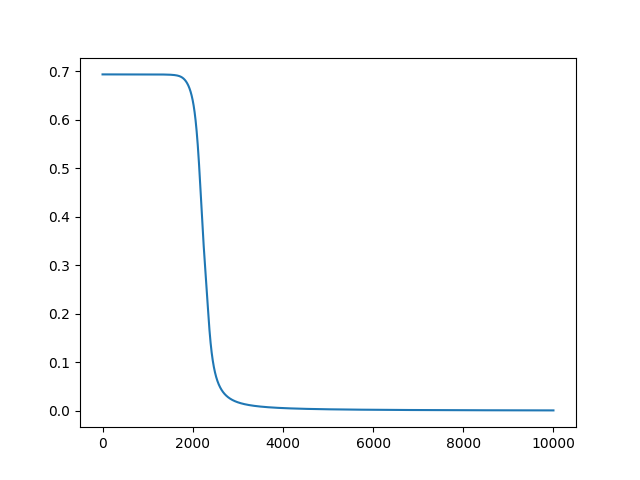
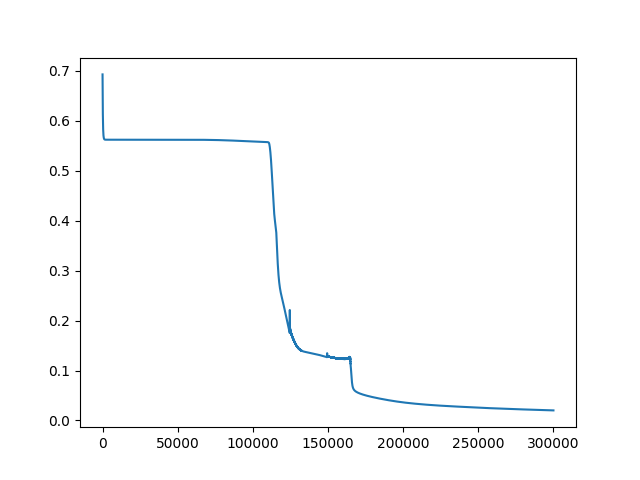
added 3d data + images

diff --git a/main.py b/main.py
@@ -2,79 +2,101 @@ from neural_network import NeuralNetwork
 from layer import Dense
 import numpy as np
 import matplotlib.pyplot as plt
+from mpl_toolkits.mplot3d import Axes3D
+import random
 
-def createData():
-    # circles = np.array([[1, 5, 0], [1, 3.8, 0], [1.3, 4, 0], [2, 3.8, 0], [1.5, 1.8, 0], [0.9, 0.9, 0], [2.3, 1, 0],
-    #                     [2.6, 1.9, 0], [3.3, 1.9, 0], [4.2, 1.2, 0], [5.1, 2.1, 0], [5.4, 0.7, 0]])
-    #
-    # squares = np.array([[3, 5, 1], [3.1, 4.2, 1], [3.14, 3.1, 1], [3.9, 3.5, 1], [4.1, 4.8, 1], [4.2, 3, 1],
-    #                     [4.8, 3.1, 1], [4.8, 4.9, 1], [5, 4, 1], [5.2, 3.1, 1], [5.4, 5.1, 1], [6, 3.8, 1]])
+def create3dData():
+    circles = []
+    squares = []
 
-    circles = np.array([[1.8, 2.2, 0], [2.6, 1.8, 0], [3.8, 1.9, 0], [4, 2.1, 0], [4.1, 3, 0], [4.1, 4.1, 0],
-                        [3.9, 4.3, 0], [1.7, 4, 0], [2, 4.3, 0], [2.1, 2.1, 0], [1.8, 3, 0], [1.9, 3.2, 0],
-                        [3, 5, 0], [2.5, 4.5, 0], [2.6, 4.6, 0], [3.5, 4.6, 0], [3, 1.9, 0], [3.3, 1.8, 0], [3.5, 1.75, 0]])
-    squares = np.array([[2.2, 2.9, 1], [2.22, 3.9, 1], [3.3, 2.2, 1], [3.8, 2.65, 1], [3.8, 3.6, 1], [3.5, 4, 1],
-                        [3, 4.2, 1], [2.9, 2.4, 1], [2.2, 3.5, 1], [2.6, 2.6, 1], [3.6, 2.5, 1], [3.9, 3.1, 1],
-                        [2.6, 4, 1]])
+    for i in range(200):
+        x = random.random() * 2 + 2
+        y = random.random() * 2 + 2
+        z = random.random() * 2 + 2
+        squares.append([x, y, z, 1])
 
-    plt.scatter(circles[:, 0], circles[:, 1], marker='o', color='blue')
-    plt.scatter(squares[:, 0], squares[:, 1], marker='s', color='green')
-    plt.savefig('simpleData')
+    for i in range(500):
+        x = random.random() * 6
+        y = random.random() * 6
+        z = random.random() * 6
+
+        while((x >= 2 and x < 4) and (y >= 2 and y < 4) and (z >= 2 and z < 4)):
+            x = random.random() * 6
+            y = random.random() * 6
+            z = random.random() * 6
+
+        circles.append([x, y, z, 0])
+
+    squares = np.array(squares)
+    circles = np.array(circles)
+
+
+    figure = plt.figure()
+    ax = Axes3D(figure)
+
+    ax.scatter(squares[:, 0], squares[:, 1], squares[:, 2], marker='s', color='green')
+    ax.scatter(circles[:, 0], circles[:, 1], circles[:, 2], marker='o', color='blue')
+    plt.savefig('3dData')
     plt.show()
 
     return circles, squares
 
 # for the test set
-def createRandomData(num):
-    randData = np.random.rand(2, num) * 6
+def createRandomData3d(num):
+    randData = np.random.rand(3, num) * 6
     return randData
 
 def trainNeuralNetworkSimpleData(plotCost=False):
     # classifies if examples are squares or not
 
-    origCircles, origSquares = createData()
+    origCircles, origSquares = create3dData()
     data = np.concatenate((origCircles, origSquares), axis=0)
     X = np.delete(data, -1, axis=1)
     y = data[:, -1]
 
 
-    neuralNetwork = NeuralNetwork(inputSize=2, layers=[
+    neuralNetwork = NeuralNetwork(inputSize=3, layers=[
         Dense(size=5, activation='tanh'),
         Dense(size=5, activation='tanh'),
         Dense(size=1, activation='sigmoid')
     ])
 
-    costHistory = neuralNetwork.train(X.T, y, iterations=1000000, learningRate=0.005, printCost=True, printCostRounds=10000)
+    costHistory = neuralNetwork.train(X.T, y, iterations=500000, learningRate=0.01, printCost=True, printCostRounds=10000)
 
     if(plotCost):
         plt.plot(costHistory)
-        plt.savefig('costHistory')
+        plt.savefig('costHistory3d')
         plt.show()
 
     num = 100000
-    randData = createRandomData(num)
+    randData = createRandomData3d(num)
     predictions = neuralNetwork.predict(randData)
 
+    plotResults3d(neuralNetwork, num, origCircles, origSquares, predictions, randData)
+
+def plotResults3d(neuralNetwork, num, origCircles, origSquares, predictions, randData):
     squares = []
     circles = []
     for i in range(num):
-        if(predictions[0, i] == 1):
+        if (predictions[0, i] == 1):
             squares.append(i)
         else:
             circles.append(i)
-
     squares = randData[:, squares]
     circles = randData[:, circles]
 
-    plt.scatter(squares[0], squares[1], marker='s', color='springgreen')
-    plt.scatter(circles[0], circles[1], marker='o', color='cornflowerblue')
+    figure = plt.figure()
+    ax = Axes3D(figure)
 
-    plt.scatter(origCircles[:, 0], origCircles[:, 1], marker='o', color='blue')
-    plt.scatter(origSquares[:, 0], origSquares[:, 1], marker='s', color='green')
-    plt.savefig('endResult')
+    ax.scatter(squares[0], squares[1], squares[2], marker='s', color='springgreen')
+    ax.scatter(circles[0], circles[1], circles[2], alpha=0.01, marker='o', color='cornflowerblue')
+    ax.scatter(origCircles[:, 0], origCircles[:, 1], origCircles[:, 2], marker='o', color='blue')
+    ax.scatter(origSquares[:, 0], origSquares[:, 1], origSquares[:, 2], marker='s', color='green')
+    plt.savefig('endResult3d')
     plt.show()
 
     neuralNetwork.prettyPrint()
+
 
 def main():
     trainNeuralNetworkSimpleData(plotCost=True)
